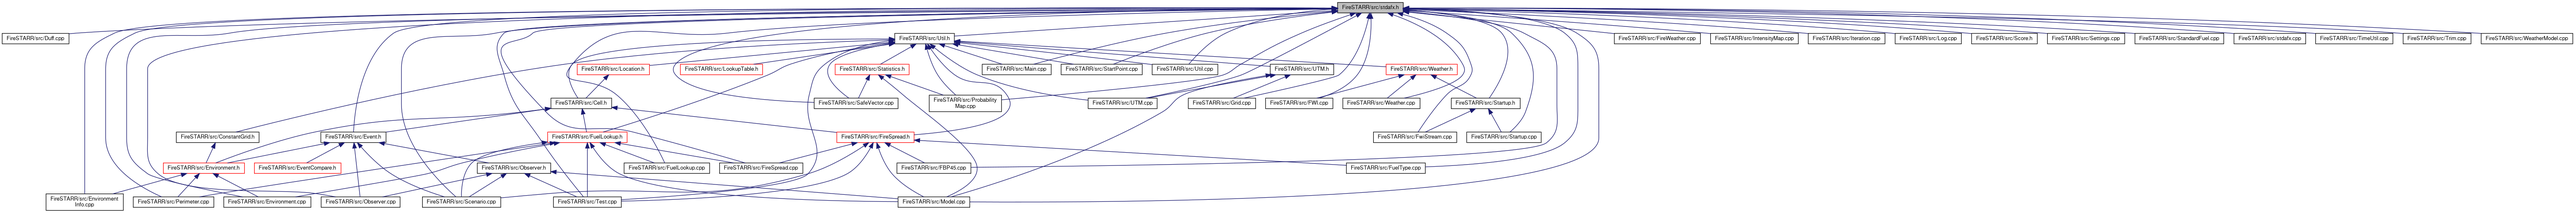
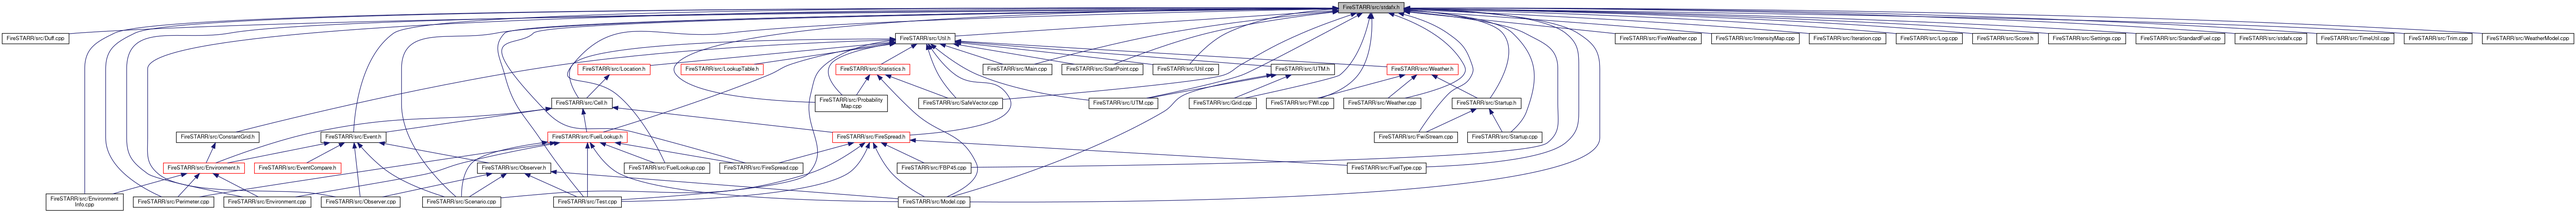
deploy: b51c653f9c32199aa40bca1043ba200b5f46cd3c

diff --git a/FireSTARR/stdafx_8h.html b/FireSTARR/stdafx_8h.html
@@ -176,7 +176,7 @@ This graph shows which files directly or indirectly include this file:</div>
 <div class="dyncontent">
 <div class="center"><img src="stdafx_8h__dep__incl.png" border="0" usemap="#aFireSTARR_2src_2stdafx_8hdep" alt=""/></div>
 <map name="aFireSTARR_2src_2stdafx_8hdep" id="aFireSTARR_2src_2stdafx_8hdep">
-<area shape="rect" title=" " alt="" coords="3232,5,3391,32"/>
+<area shape="rect" title=" " alt="" coords="3233,5,3392,32"/>
 <area shape="rect" href="Duff_8cpp.html" title=" " alt="" coords="5,80,167,107"/>
 <area shape="rect" href="EnvironmentInfo_8cpp.html" title=" " alt="" coords="111,468,298,509"/>
 <area shape="rect" href="Environment_8cpp.html" title=" " alt="" coords="541,475,751,502"/>
@@ -188,44 +188,44 @@ This graph shows which files directly or indirectly include this file:</div>
 <area shape="rect" href="Test_8cpp.html" title=" " alt="" coords="1337,475,1501,502"/>
 <area shape="rect" href="FBP45_8cpp.html" title=" " alt="" coords="2167,393,2346,420"/>
 <area shape="rect" href="FireSpread_8cpp.html" title=" " alt="" coords="1739,393,1940,420"/>
-<area shape="rect" href="FireWeather_8cpp.html" title=" " alt="" coords="3901,80,4109,107"/>
+<area shape="rect" href="FireWeather_8cpp.html" title=" " alt="" coords="3902,80,4110,107"/>
 <area shape="rect" href="FuelLookup_8cpp.html" title=" " alt="" coords="1508,393,1715,420"/>
-<area shape="rect" href="FuelType_8cpp.html" title=" " alt="" coords="3253,393,3444,420"/>
-<area shape="rect" href="FWI_8cpp.html" title=" " alt="" coords="3058,237,3221,263"/>
-<area shape="rect" href="FwiStream_8cpp.html" title=" " alt="" coords="3319,319,3520,345"/>
-<area shape="rect" href="Grid_8cpp.html" title=" " alt="" coords="2871,237,3034,263"/>
-<area shape="rect" href="IntensityMap_8cpp.html" title=" " alt="" coords="4133,80,4345,107"/>
-<area shape="rect" href="Iteration_8cpp.html" title=" " alt="" coords="4369,80,4555,107"/>
-<area shape="rect" href="Log_8cpp.html" title=" " alt="" coords="4579,80,4739,107"/>
-<area shape="rect" href="Main_8cpp.html" title=" " alt="" coords="2373,155,2540,181"/>
-<area shape="rect" href="ProbabilityMap_8cpp.html" title=" " alt="" coords="2245,229,2420,271"/>
-<area shape="rect" href="SafeVector_8cpp.html" title=" " alt="" coords="1967,237,2170,263"/>
-<area shape="rect" href="Score_8h.html" title=" " alt="" coords="4764,80,4923,107"/>
-<area shape="rect" href="Settings_8cpp.html" title=" " alt="" coords="4947,80,5134,107"/>
-<area shape="rect" href="StandardFuel_8cpp.html" title=" " alt="" coords="5159,80,5373,107"/>
-<area shape="rect" href="StartPoint_8cpp.html" title=" " alt="" coords="2564,155,2760,181"/>
-<area shape="rect" href="Startup_8cpp.html" title=" " alt="" coords="3544,319,3724,345"/>
-<area shape="rect" href="Startup_8h.html" title=" " alt="" coords="3507,237,3673,263"/>
-<area shape="rect" href="stdafx_8cpp.html" title=" " alt="" coords="5398,80,5571,107"/>
-<area shape="rect" href="TimeUtil_8cpp.html" title=" " alt="" coords="5595,80,5782,107"/>
-<area shape="rect" href="Trim_8cpp.html" title=" " alt="" coords="5807,80,5971,107"/>
-<area shape="rect" href="Util_8cpp.html" title=" " alt="" coords="2784,155,2943,181"/>
-<area shape="rect" href="Util_8h.html" title=" " alt="" coords="2162,80,2306,107"/>
-<area shape="rect" href="UTM_8cpp.html" title=" " alt="" coords="2629,237,2796,263"/>
-<area shape="rect" href="Weather_8cpp.html" title=" " alt="" coords="3245,237,3431,263"/>
-<area shape="rect" href="WeatherModel_8cpp.html" title=" " alt="" coords="5995,80,6217,107"/>
+<area shape="rect" href="FuelType_8cpp.html" title=" " alt="" coords="3255,393,3445,420"/>
+<area shape="rect" href="FWI_8cpp.html" title=" " alt="" coords="3059,237,3222,263"/>
+<area shape="rect" href="FwiStream_8cpp.html" title=" " alt="" coords="3320,319,3521,345"/>
+<area shape="rect" href="Grid_8cpp.html" title=" " alt="" coords="2873,237,3035,263"/>
+<area shape="rect" href="IntensityMap_8cpp.html" title=" " alt="" coords="4135,80,4347,107"/>
+<area shape="rect" href="Iteration_8cpp.html" title=" " alt="" coords="4371,80,4556,107"/>
+<area shape="rect" href="Log_8cpp.html" title=" " alt="" coords="4581,80,4741,107"/>
+<area shape="rect" href="Main_8cpp.html" title=" " alt="" coords="2375,155,2541,181"/>
+<area shape="rect" href="SafeVector_8cpp.html" title=" " alt="" coords="2219,237,2422,263"/>
+<area shape="rect" href="ProbabilityMap_8cpp.html" title=" " alt="" coords="1969,229,2144,271"/>
+<area shape="rect" href="Score_8h.html" title=" " alt="" coords="4765,80,4924,107"/>
+<area shape="rect" href="Settings_8cpp.html" title=" " alt="" coords="4949,80,5135,107"/>
+<area shape="rect" href="StandardFuel_8cpp.html" title=" " alt="" coords="5160,80,5375,107"/>
+<area shape="rect" href="StartPoint_8cpp.html" title=" " alt="" coords="2565,155,2761,181"/>
+<area shape="rect" href="Startup_8cpp.html" title=" " alt="" coords="3545,319,3725,345"/>
+<area shape="rect" href="Startup_8h.html" title=" " alt="" coords="3508,237,3675,263"/>
+<area shape="rect" href="stdafx_8cpp.html" title=" " alt="" coords="5399,80,5573,107"/>
+<area shape="rect" href="TimeUtil_8cpp.html" title=" " alt="" coords="5597,80,5783,107"/>
+<area shape="rect" href="Trim_8cpp.html" title=" " alt="" coords="5808,80,5972,107"/>
+<area shape="rect" href="Util_8cpp.html" title=" " alt="" coords="2785,155,2944,181"/>
+<area shape="rect" href="Util_8h.html" title=" " alt="" coords="2163,80,2307,107"/>
+<area shape="rect" href="UTM_8cpp.html" title=" " alt="" coords="2631,237,2797,263"/>
+<area shape="rect" href="Weather_8cpp.html" title=" " alt="" coords="3246,237,3433,263"/>
+<area shape="rect" href="WeatherModel_8cpp.html" title=" " alt="" coords="5997,80,6218,107"/>
 <area shape="rect" href="Environment_8h.html" title=" " alt="" coords="395,393,591,420"/>
 <area shape="rect" href="EventCompare_8h.html" title=" " alt="" coords="615,393,824,420"/>
 <area shape="rect" href="Observer_8h.html" title=" " alt="" coords="1153,393,1331,420"/>
-<area shape="rect" href="Cell_8h.html" title=" " alt="" coords="1331,237,1478,263"/>
-<area shape="rect" href="FireSpread_8h.html" title=" " alt="" coords="2022,319,2209,345"/>
+<area shape="rect" href="Cell_8h.html" title=" " alt="" coords="1333,237,1479,263"/>
+<area shape="rect" href="FireSpread_8h.html" title=" " alt="" coords="2011,319,2198,345"/>
 <area shape="rect" href="FuelLookup_8h.html" title=" " alt="" coords="1323,319,1515,345"/>
 <area shape="rect" href="ConstantGrid_8h.html" title=" " alt="" coords="426,319,626,345"/>
-<area shape="rect" href="Location_8h.html" title=" " alt="" coords="1395,155,1569,181"/>
-<area shape="rect" href="LookupTable_8h.html" title=" " alt="" coords="1644,155,1843,181"/>
-<area shape="rect" href="Statistics_8h.html" title=" " alt="" coords="2018,155,2197,181"/>
-<area shape="rect" href="UTM_8h.html" title=" " alt="" coords="3069,155,3223,181"/>
-<area shape="rect" href="Weather_8h.html" title=" " alt="" coords="3349,155,3521,181"/>
+<area shape="rect" href="Location_8h.html" title=" " alt="" coords="1396,155,1571,181"/>
+<area shape="rect" href="LookupTable_8h.html" title=" " alt="" coords="1645,155,1844,181"/>
+<area shape="rect" href="Statistics_8h.html" title=" " alt="" coords="2019,155,2198,181"/>
+<area shape="rect" href="UTM_8h.html" title=" " alt="" coords="3071,155,3224,181"/>
+<area shape="rect" href="Weather_8h.html" title=" " alt="" coords="3351,155,3523,181"/>
 </map>
 </div>
 </div>

diff --git a/FireSTARR/Statistics_8h.html b/FireSTARR/Statistics_8h.html
@@ -141,14 +141,14 @@ This graph shows which files directly or indirectly include this file:</div>
 <div class="dyncontent">
 <div class="center"><img src="Statistics_8h__dep__incl.png" border="0" usemap="#aFireSTARR_2src_2Statistics_8hdep" alt=""/></div>
 <map name="aFireSTARR_2src_2Statistics_8hdep" id="aFireSTARR_2src_2Statistics_8hdep">
-<area shape="rect" title=" " alt="" coords="264,5,443,32"/>
+<area shape="rect" title=" " alt="" coords="504,5,683,32"/>
 <area shape="rect" href="Model_8cpp.html" title=" " alt="" coords="5,177,179,203"/>
-<area shape="rect" href="ProbabilityMap_8cpp.html" title=" " alt="" coords="203,169,378,211"/>
-<area shape="rect" href="ProbabilityMap_8h.html" title=" " alt="" coords="329,80,503,121"/>
-<area shape="rect" href="SafeVector_8cpp.html" title=" " alt="" coords="528,87,731,114"/>
-<area shape="rect" href="Environment_8cpp.html" title=" " alt="" coords="403,177,613,203"/>
-<area shape="rect" href="Iteration_8cpp.html" title=" " alt="" coords="638,177,823,203"/>
-<area shape="rect" href="Scenario_8cpp.html" title=" " alt="" coords="848,177,1037,203"/>
+<area shape="rect" href="ProbabilityMap_8h.html" title=" " alt="" coords="443,80,618,121"/>
+<area shape="rect" href="ProbabilityMap_8cpp.html" title=" " alt="" coords="862,169,1037,211"/>
+<area shape="rect" href="SafeVector_8cpp.html" title=" " alt="" coords="693,87,896,114"/>
+<area shape="rect" href="Environment_8cpp.html" title=" " alt="" coords="203,177,413,203"/>
+<area shape="rect" href="Iteration_8cpp.html" title=" " alt="" coords="438,177,623,203"/>
+<area shape="rect" href="Scenario_8cpp.html" title=" " alt="" coords="648,177,837,203"/>
 </map>
 </div>
 </div>
